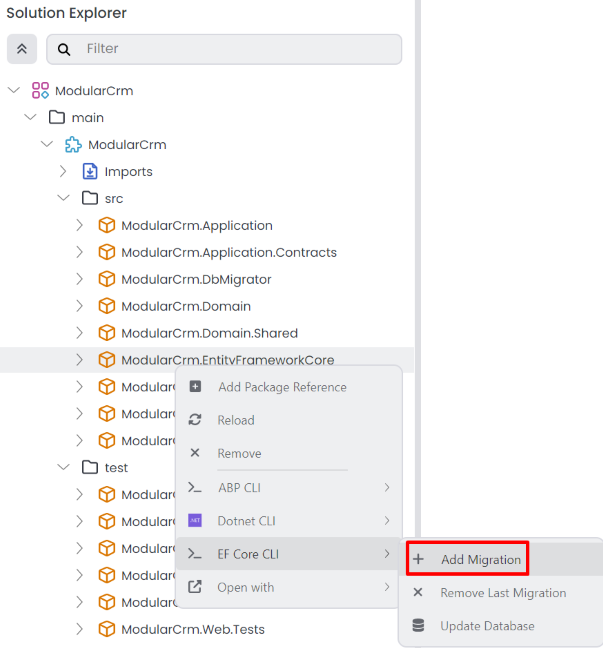
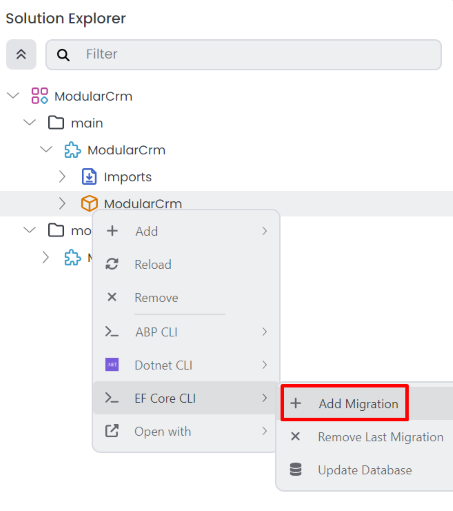
Update modular CRM tutorial to clarify project structure and correct references to DbContext and application modules

diff --git a/docs/en/tutorials/modular-crm/part-03.md b/docs/en/tutorials/modular-crm/part-03.md
@@ -164,7 +164,7 @@ Open the `ModularCrm` module (which is the main application) in your IDE:
 
 ![abp-studio-open-with-visual-studio-main-app](images/abp-studio-open-with-visual-studio-main-app.png)
 
-Find the `ModularCrmDbContext` class under the `ModularCrm.EntityFrameworkCore` project:
+Open the `ModularCrmDbContext` class under the `ModularCrm` project `Data` folder:
 
 ![visual-studio-main-dbcontext](images/visual-studio-main-dbcontext.png)
 
@@ -185,10 +185,9 @@ Follow the three steps below;
 **(2)** Implement the `IProductsDbContext` by the `ModularCrmDbContext` class:
 
 ````csharp
+[ReplaceDbContext(typeof(IProductsDbContext))]
 public class ModularCrmDbContext :
     AbpDbContext<ModularCrmDbContext>,
-    ITenantManagementDbContext,
-    IIdentityDbContext,
     IProductsDbContext //NEW: IMPLEMENT THE INTERFACE
 {
     public DbSet<Product> Products { get; set; } //NEW: ADD DBSET PROPERTY
@@ -214,7 +213,7 @@ Now, we can add a new database migration. You can use Entity Framework Core's `A
 
 Ensure that the solution has built. You can right-click the `ModularCrm` (under the `main` folder) on ABP Studio *Solution Runner* and select the *Dotnet CLI* -> *Graph Build* command.
 
-Right-click the `ModularCrm.EntityFrameworkCore` package and select the *EF Core CLI* -> *Add Migration* command:
+Right-click the `ModularCrm` package and select the *EF Core CLI* -> *Add Migration* command:
 
 ![abp-studio-add-entity-framework-core-migration](images/abp-studio-add-entity-framework-core-migration.png)
 
@@ -222,7 +221,7 @@ The *Add Migration* command opens a new dialog to get a migration name:
 
 ![abp-studio-add-entity-framework-core-migration-dialog](images/abp-studio-add-entity-framework-core-migration-dialog.png)
 
-Once you click the *OK* button, a new database migration class is added to the `Migrations` folder of the `ModularCrm.EntityFrameworkCore` project:
+Once you click the *OK* button, a new database migration class is added to the `Migrations` folder of the `ModularCrm` project:
 
 ![visual-studio-new-migration-class](images/visual-studio-new-migration-class.png)
 
@@ -369,7 +368,7 @@ For this application, we don't need to create HTTP API endpoints for the product
 * You can create a regular ASP.NET Core Controller class in the `ModularCrm.Products.HttpApi` project, inject `IProductAppService` and use it to create wrapper methods. We will do this later while we create the Ordering module.
 * Alternatively, you can use the ABP's [Auto API Controllers](../../framework/api-development/auto-controllers.md) feature to expose your application services as API controllers by conventions. We will do it here.
 
-Open the `ModularCrmWebModule` class in the main application's solution (the `ModularCrm` solution), find the `PreConfigureServices` method and add the following lines inside that method:
+Open the `ModularCrmModule` class in the main application's solution (the `ModularCrm` solution), find the `PreConfigureServices` method and add the following lines inside that method:
 
 ````csharp
 PreConfigure<IMvcBuilder>(mvcBuilder =>
@@ -385,8 +384,8 @@ Then open the `ConfigureAutoApiControllers` method of the same class and add a s
 ````csharp
 Configure<AbpAspNetCoreMvcOptions>(options =>
 {
-    options.ConventionalControllers.Create(typeof(ModularCrmApplicationModule).Assembly);
-    
+    options.ConventionalControllers.Create(typeof(ModularCrmModule).Assembly);
+
     //ADD THE FOLLOWING LINE:
     options.ConventionalControllers.Create(typeof(ProductsApplicationModule).Assembly);
 });
@@ -404,7 +403,7 @@ This section will create a few example products using the [Swagger UI](../../fra
 
 Now, right-click the `ModularCrm` under the `main` folder in the Solution Explorer panel and select the *Dotnet CLI* -> *Graph Build* command. This will ensure that the product module and the main application are built and ready to run.
 
-After the build process completes, open the Solution Runner panel and click the *Play* button near the solution root. Once the `ModularCrm.Web` application runs, we can right-click it and select the *Browse* command to open the user interface.
+After the build process completes, open the Solution Runner panel and click the *Play* button near the solution root. Once the `ModularCrm` application runs, we can right-click it and select the *Browse* command to open the user interface.
 
 Once you see the user interface of the web application, type `/swagger` at the end of the URL to open the Swagger UI. If you scroll down, you should see the `Products` API:
 
@@ -486,7 +485,7 @@ Here, we simply use the `IProductAppService` to get a list of all products and a
 </abp-card>
 ````
 
-You can build the product module's .NET solution (`ModularCrm.Products`), then right-click the `ModularCrm.Web` application on ABP Studio's solution runner and select the *Build & Restart* command:
+Right-click the `ModularCrm` application on ABP Studio's solution runner and select the *Build & Restart* command:
 
 ![abp-studio-build-and-restart-application](images/abp-studio-build-and-restart-application.png)
 
